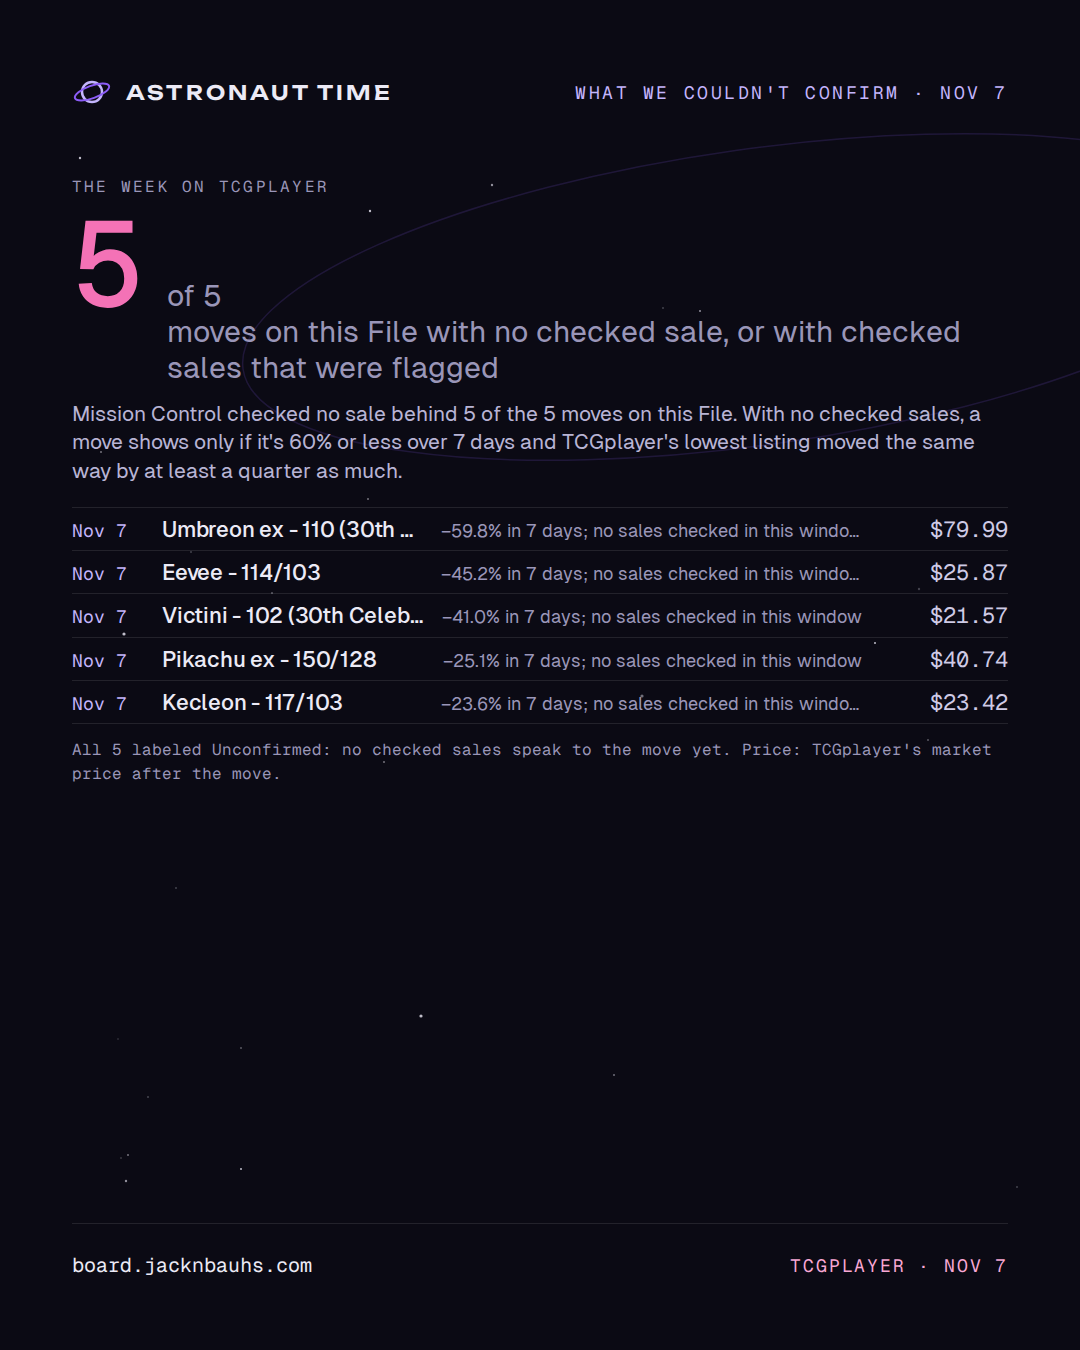
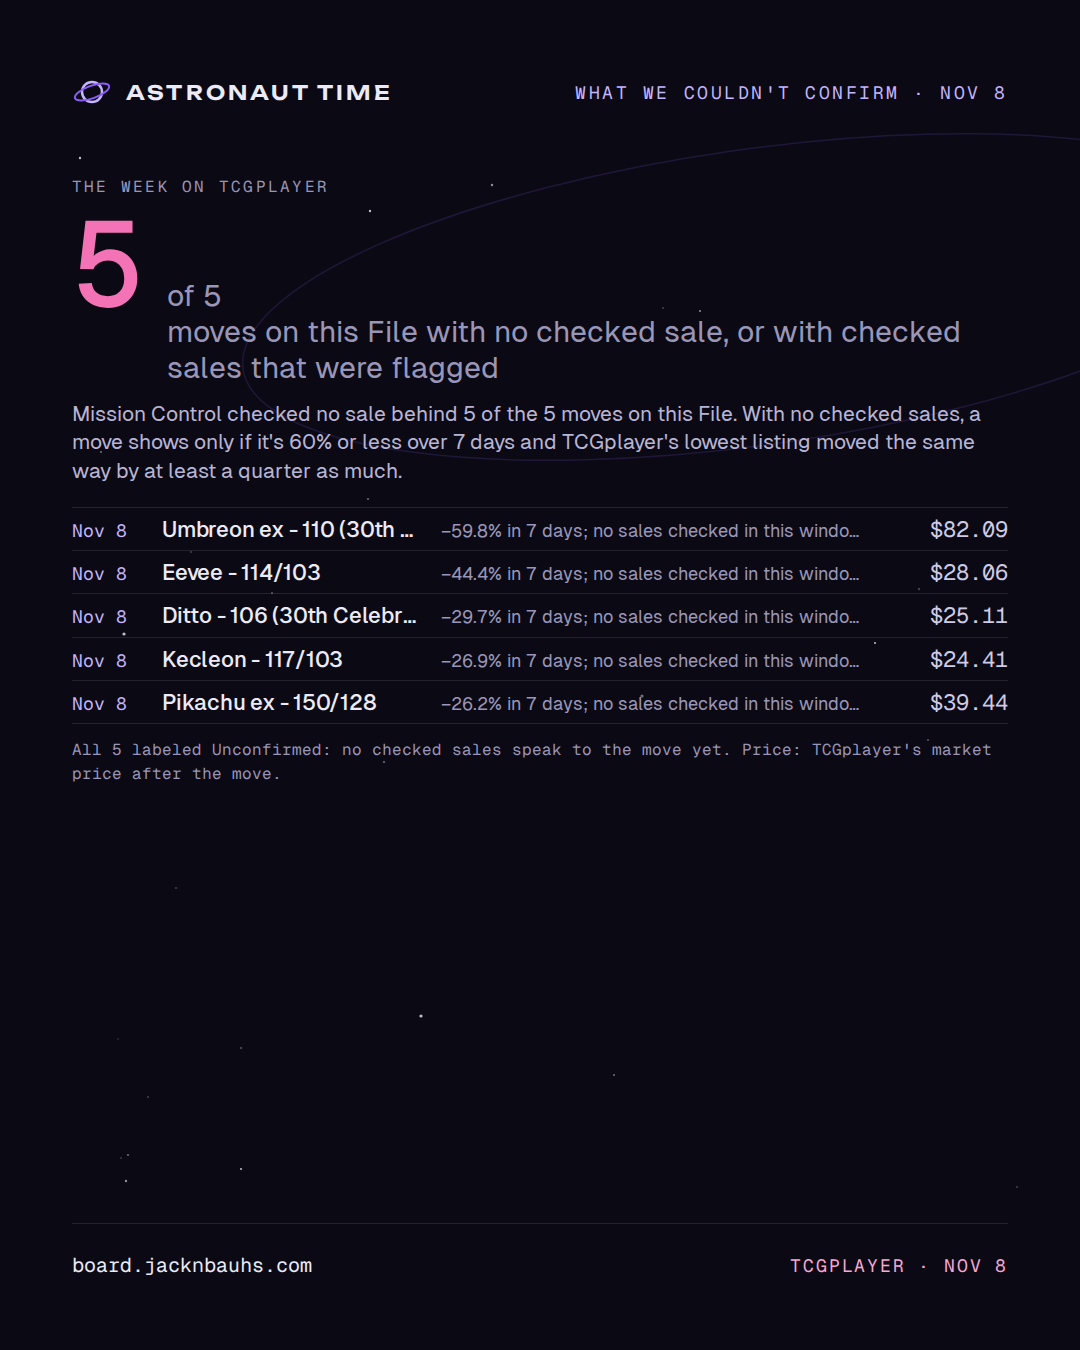
Share kit: render 2026-11-09

Changed region(s): [[0.4278, 0.4044, 0.7944, 0.5289], [0.1528, 0.4356, 0.3972, 0.5289], [0.8556, 0.3733, 0.9472, 0.5289]]

diff --git a/card.html b/card.html
@@ -10,14 +10,14 @@
 <meta property="og:url" content="https://board.jacknbauhs.com/card.html">
 <meta property="og:type" content="website">
 <meta property="og:site_name" content="Astronaut Time">
-<meta property="og:image" content="https://board.jacknbauhs.com/assets/og.png?v=2026-11-08">
+<meta property="og:image" content="https://board.jacknbauhs.com/assets/og.png?v=2026-11-09">
 <meta property="og:image:width" content="1200">
 <meta property="og:image:height" content="630">
 <meta property="og:image:alt" content="Mission Control by Astronaut Time: the card market, with the fake sales taken out.">
 <meta name="twitter:card" content="summary_large_image">
 <meta name="twitter:title" content="Card · Mission Control · Astronaut Time">
 <meta name="twitter:description" content="The card market, with the fake sales taken out.">
-<meta name="twitter:image" content="https://board.jacknbauhs.com/assets/og.png?v=2026-11-08">
+<meta name="twitter:image" content="https://board.jacknbauhs.com/assets/og.png?v=2026-11-09">
 <meta name="theme-color" content="#0B0A14">
 <link rel="icon" href="assets/favicon.svg" type="image/svg+xml">
 <link rel="preconnect" href="https://fonts.googleapis.com">

diff --git a/404.html b/404.html
@@ -10,14 +10,14 @@
 <meta property="og:url" content="https://board.jacknbauhs.com/">
 <meta property="og:type" content="website">
 <meta property="og:site_name" content="Astronaut Time">
-<meta property="og:image" content="https://board.jacknbauhs.com/assets/og.png?v=2026-11-08">
+<meta property="og:image" content="https://board.jacknbauhs.com/assets/og.png?v=2026-11-09">
 <meta property="og:image:width" content="1200">
 <meta property="og:image:height" content="630">
 <meta property="og:image:alt" content="Mission Control by Astronaut Time: the card market, with the fake sales taken out.">
 <meta name="twitter:card" content="summary_large_image">
 <meta name="twitter:title" content="Mission Control · Astronaut Time">
 <meta name="twitter:description" content="The card market, with the fake sales taken out.">
-<meta name="twitter:image" content="https://board.jacknbauhs.com/assets/og.png?v=2026-11-08">
+<meta name="twitter:image" content="https://board.jacknbauhs.com/assets/og.png?v=2026-11-09">
 <meta name="theme-color" content="#0B0A14">
 <link rel="icon" href="/assets/favicon.svg" type="image/svg+xml">
 <link rel="preconnect" href="https://fonts.googleapis.com">

diff --git a/index.html b/index.html
@@ -10,14 +10,14 @@
 <meta property="og:url" content="https://board.jacknbauhs.com/">
 <meta property="og:type" content="website">
 <meta property="og:site_name" content="Astronaut Time">
-<meta property="og:image" content="https://board.jacknbauhs.com/assets/og.png?v=2026-11-08">
+<meta property="og:image" content="https://board.jacknbauhs.com/assets/og.png?v=2026-11-09">
 <meta property="og:image:width" content="1200">
 <meta property="og:image:height" content="630">
 <meta property="og:image:alt" content="Mission Control by Astronaut Time: the card market, with the fake sales taken out.">
 <meta name="twitter:card" content="summary_large_image">
 <meta name="twitter:title" content="Mission Control · Astronaut Time">
 <meta name="twitter:description" content="The card market, with the fake sales taken out.">
-<meta name="twitter:image" content="https://board.jacknbauhs.com/assets/og.png?v=2026-11-08">
+<meta name="twitter:image" content="https://board.jacknbauhs.com/assets/og.png?v=2026-11-09">
 <meta name="theme-color" content="#0B0A14">
 <link rel="icon" href="assets/favicon.svg" type="image/svg+xml">
 <link rel="preconnect" href="https://fonts.googleapis.com">

diff --git a/share/out/captions.md b/share/out/captions.md
@@ -1,24 +1,30 @@
-# Captions, board data of 2026-11-08
+# Captions, board data of 2026-11-09
 
 One block per image. Caption first, alt text second. Plain facts, the source and the board link; nothing here is a buy.
 
 ## Before you post
 
-- ✅ Prices are from Nov 7, 2026.
+- ✅ Prices are from Nov 8, 2026.
 - ⚠ All 10 on the 7-day list are unconfirmed: no checked sale behind any. Keep "unconfirmed" in the post and call them price moves, not sales.
 - ⚠ All 10 on the since-yesterday list are unconfirmed: no checked sale behind any. Keep "unconfirmed" in the post and call them price moves, not sales.
 
-## file-2026-11-08-cover.png
+## file-2026-11-09-cover.png
 
-The File, Nov 8: The 5 biggest moves on the board's 7-day list, prices Oct 31 to Nov 7. TCGplayer's market price for Umbreon ex - 110 (30th Celebration) fell 59.8% to $79.99 between Oct 31 and Nov 7. None of the 5 has a checked sale behind the move: unconfirmed means Mission Control checked no sale in the window, not that anything is wrong. Umbreon ex - 110 (30th Celebration) (ME: Mega Evolution Promo): TCGplayer market price $79.99 on Nov 7, −59.8% in 7 days, unconfirmed. Eevee - 114/103 (ME06: Delta Reign): TCGplayer market price $25.87 on Nov 7, −45.2% in 7 days, unconfirmed. Victini - 102 (30th Celebration) (ME: Mega Evolution Promo): TCGplayer market price $21.57 on Nov 7, −41.0% in 7 days, unconfirmed. Pikachu ex - 150/128 (ME: 30th Celebration): TCGplayer market price $40.74 on Nov 7, −25.1% in 7 days, unconfirmed. Kecleon - 117/103 (ME06: Delta Reign): TCGplayer market price $23.42 on Nov 7, −23.6% in 7 days, unconfirmed. 5 of 5 moves on this File with no checked sale, or with checked sales that were flagged. Why now: Mission Control writes this File every morning from the nightly TCGplayer pull, so the board has a fresh File on the mornings no hand-written one is up (Tue, Thu and Sat are its days). What could break it: A market price is TCGplayer's average of recent completed sales of the same card, condition and printing, so one sale can move a thin card. The list's rule keeps out the moves nothing backs, not every thin one. This is not a read on whether these prices are high or low. What we're watching: Whether these moves hold on tomorrow's pull. A card drops off the list by moving less than 5% in a week, more than 60% with no checked sale, without its lowest listing moving the same way, or below $20. The next hand-written File day is Tuesday, Nov 10. Unconfirmed: no checked sales speak to the move yet. Source: TCGplayer market prices via tcgcsv.com, the board's 7-day list (prices Oct 31 to Nov 7, 2026, published Nov 8). board.jacknbauhs.com
+The File, Nov 9: The 5 biggest moves on the board's 7-day list, prices Nov 1 to Nov 8. TCGplayer's market price for Umbreon ex - 110 (30th Celebration) fell 59.8% to $82.09 between Nov 1 and Nov 8. None of the 5 has a checked sale behind the move: unconfirmed means Mission Control checked no sale in the window, not that anything is wrong. Umbreon ex - 110 (30th Celebration) (ME: Mega Evolution Promo): TCGplayer market price $82.09 on Nov 8, −59.8% in 7 days, unconfirmed. Eevee - 114/103 (ME06: Delta Reign): TCGplayer market price $28.06 on Nov 8, −44.4% in 7 days, unconfirmed. Ditto - 106 (30th Celebration) (ME: Mega Evolution Promo): TCGplayer market price $25.11 on Nov 8, −29.7% in 7 days, unconfirmed. Kecleon - 117/103 (ME06: Delta Reign): TCGplayer market price $24.41 on Nov 8, −26.9% in 7 days, unconfirmed. Pikachu ex - 150/128 (ME: 30th Celebration): TCGplayer market price $39.44 on Nov 8, −26.2% in 7 days, unconfirmed. 5 of 5 moves on this File with no checked sale, or with checked sales that were flagged. Why now: Mission Control writes this File every morning from the nightly TCGplayer pull, so the board has a fresh File on the mornings no hand-written one is up (Tue, Thu and Sat are its days). What could break it: A market price is TCGplayer's average of recent completed sales of the same card, condition and printing, so one sale can move a thin card. The list's rule keeps out the moves nothing backs, not every thin one. This is not a read on whether these prices are high or low. What we're watching: Whether these moves hold on tomorrow's pull. A card drops off the list by moving less than 5% in a week, more than 60% with no checked sale, without its lowest listing moving the same way, or below $20. The next hand-written File day is Tuesday, Nov 10. Unconfirmed: no checked sales speak to the move yet. Source: TCGplayer market prices via tcgcsv.com, the board's 7-day list (prices Nov 1 to Nov 8, 2026, published Nov 9). board.jacknbauhs.com
 
-Alt: The File on the Astronaut Time board: The 5 biggest moves on the board's 7-day list, prices Oct 31 to Nov 7. The biggest moves on the board's 7-day list, prices Oct 31 to Nov 7: −59.8%, in 7 days · Umbreon ex - 110 (30th Celebration). Five 7-day TCGplayer moves as bars, each with its change, price and label, and the flags tally, 5 of 5.
+Alt: The File on the Astronaut Time board: The 5 biggest moves on the board's 7-day list, prices Nov 1 to Nov 8. The biggest moves on the board's 7-day list, prices Nov 1 to Nov 8: −59.8%, in 7 days · Umbreon ex - 110 (30th Celebration). Five 7-day TCGplayer moves as bars, each with its change, price and label, and the flags tally, 5 of 5.
 
-## flags-2026-11-07-cover.png
+## flags-2026-11-08-cover.png
 
-5 of 5 moves on this File with no checked sale, or with checked sales that were flagged. Mission Control checked no sale behind 5 of the 5 moves on this File. With no checked sales, a move shows only if it's 60% or less over 7 days and TCGplayer's lowest listing moved the same way by at least a quarter as much. Umbreon ex - 110 (30th Celebration), Nov 7: $79.99, −59.8% in 7 days; no sales checked in this window. Eevee - 114/103, Nov 7: $25.87, −45.2% in 7 days; no sales checked in this window. Victini - 102 (30th Celebration), Nov 7: $21.57, −41.0% in 7 days; no sales checked in this window. Pikachu ex - 150/128, Nov 7: $40.74, −25.1% in 7 days; no sales checked in this window. Kecleon - 117/103, Nov 7: $23.42, −23.6% in 7 days; no sales checked in this window. Every one is on the board with its label. Prices are TCGplayer's market price after the move. Source: TCGplayer market prices via tcgcsv.com, the board's 7-day list (prices Oct 31 to Nov 7, 2026, published Nov 8). board.jacknbauhs.com
+5 of 5 moves on this File with no checked sale, or with checked sales that were flagged. Mission Control checked no sale behind 5 of the 5 moves on this File. With no checked sales, a move shows only if it's 60% or less over 7 days and TCGplayer's lowest listing moved the same way by at least a quarter as much. Umbreon ex - 110 (30th Celebration), Nov 8: $82.09, −59.8% in 7 days; no sales checked in this window. Eevee - 114/103, Nov 8: $28.06, −44.4% in 7 days; no sales checked in this window. Ditto - 106 (30th Celebration), Nov 8: $25.11, −29.7% in 7 days; no sales checked in this window. Kecleon - 117/103, Nov 8: $24.41, −26.9% in 7 days; no sales checked in this window. Pikachu ex - 150/128, Nov 8: $39.44, −26.2% in 7 days; no sales checked in this window. Every one is on the board with its label. Prices are TCGplayer's market price after the move. Source: TCGplayer market prices via tcgcsv.com, the board's 7-day list (prices Nov 1 to Nov 8, 2026, published Nov 9). board.jacknbauhs.com
 
 Alt: What we couldn't confirm: 5 of 5 moves on this File with no checked sale, or with checked sales that were flagged, all 5 listed one per line with the day, the card, the change and the TCGplayer market price after it.
+
+## flag-2026-11-07-feed-01-charizard-sir-151-psa-9-thin-spike.png
+
+Charizard SIR (151) · PSA 9 (Pokemon Card 151): the chart says +27%. Above recent sales, thin volume. Label: thin spike. Up on a handful of sales, with no volume behind it. board.jacknbauhs.com
+
+Alt: Flagged move: Charizard SIR (151) · PSA 9, a claimed +27%, labeled thin spike. Above recent sales, thin volume.
 
 ## call-001-2026-09-28.png
 
@@ -46,6 +52,6 @@ Alt: Three calls on the record. Number 001: The 30th Celebration Booster Bundle'
 
 ## moving-2026-W45.png
 
-What's moving on TCGplayer, as of Nov 7, 2026. Ten moves of 5% or more made the list in the last 7 days. Umbreon ex - 110 (30th Celebration) (ME: Mega Evolution Promo · 110 · Holofoil): $79.99, −59.8%, unconfirmed. Eevee - 114/103 (ME06: Delta Reign · 114/103 · Holofoil): $25.87, −45.2%, unconfirmed. Victini - 102 (30th Celebration) (ME: Mega Evolution Promo · 102 · Holofoil): $21.57, −41.0%, unconfirmed. Pikachu ex - 150/128 (ME: 30th Celebration · 150/128 · Holofoil): $40.74, −25.1%, unconfirmed. Kecleon - 117/103 (ME06: Delta Reign · 117/103 · Holofoil): $23.42, −23.6%, unconfirmed. Lugia VSTAR - 139/195 (Prize Pack Series Cards · 139/195 · Holofoil): $28.66, +23.4%, unconfirmed. Lugia (ME: 30th Celebration Classic Collection · 149/147 · Holofoil): $132.76, −21.2%, unconfirmed. Pikachu ex - 149/128 (ME: 30th Celebration · 149/128 · Holofoil): $34.87, −19.8%, unconfirmed. Unconfirmed: no checked sales; shown only if ≤60%, actively traded, low listing agreed, priced within 2 days. Source: TCGplayer market prices via tcgcsv.com, as of Nov 7, 2026. board.jacknbauhs.com
+What's moving on TCGplayer, as of Nov 8, 2026. Ten moves of 5% or more made the list in the last 7 days. Umbreon ex - 110 (30th Celebration) (ME: Mega Evolution Promo · 110 · Holofoil): $82.09, −59.8%, unconfirmed. Eevee - 114/103 (ME06: Delta Reign · 114/103 · Holofoil): $28.06, −44.4%, unconfirmed. Ditto - 106 (30th Celebration) (ME: Mega Evolution Promo · 106 · Holofoil): $25.11, −29.7%, unconfirmed. Kecleon - 117/103 (ME06: Delta Reign · 117/103 · Holofoil): $24.41, −26.9%, unconfirmed. Pikachu ex - 150/128 (ME: 30th Celebration · 150/128 · Holofoil): $39.44, −26.2%, unconfirmed. Jirachi ex - 155/128 (ME: 30th Celebration · 155/128 · Holofoil): $28.51, −24.8%, unconfirmed. Mew ex - 158/128 (ME: 30th Celebration · 158/128 · Holofoil): $33.42, −24.3%, unconfirmed. Mewtwo ex - 157/128 (ME: 30th Celebration · 157/128 · Holofoil): $26.13, −23.4%, unconfirmed. Unconfirmed: no checked sales; shown only if ≤60%, actively traded, low listing agreed, priced within 2 days. Source: TCGplayer market prices via tcgcsv.com, as of Nov 8, 2026. board.jacknbauhs.com
 
 Alt: What's moving: the 8 biggest of the 10 TCGplayer moves on the list in the last 7 days, each with its market price, its change and the label for what checked sales show.

diff --git a/share/out/site/squarespace.md b/share/out/site/squarespace.md
@@ -2,7 +2,7 @@
 
 ## Four tiles (one Markdown block per column, or all four in one block)
 
-[![The File: The 5 biggest moves on the board's 7-day list, prices Oct 31 to Nov 7. −59.8%: The biggest moves on the board's 7-day list, prices Oct 31 to Nov 7, in 7 days · Umbreon ex - 110 (30th Celebration). No sale checked behind 5 of the 5. Not a read on whether these prices are high or low.](https://board.jacknbauhs.com/share/out/site/tile-file.png)](https://board.jacknbauhs.com)
+[![The File: The 5 biggest moves on the board's 7-day list, prices Nov 1 to Nov 8. −59.8%: The biggest moves on the board's 7-day list, prices Nov 1 to Nov 8, in 7 days · Umbreon ex - 110 (30th Celebration). No sale checked behind 5 of the 5. Not a read on whether these prices are high or low.](https://board.jacknbauhs.com/share/out/site/tile-file.png)](https://board.jacknbauhs.com)
 
 [![What we couldn't confirm: 5 of 5 moves on this File with no checked sale, or with checked sales that were flagged, each labeled with the reason.](https://board.jacknbauhs.com/share/out/site/tile-flags.png)](https://board.jacknbauhs.com)
 
